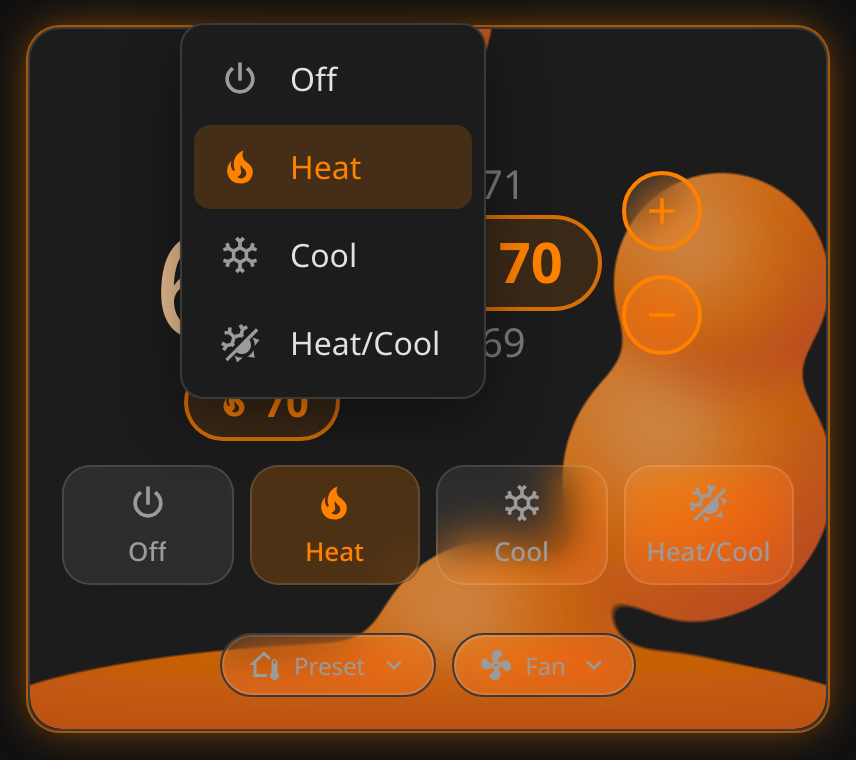
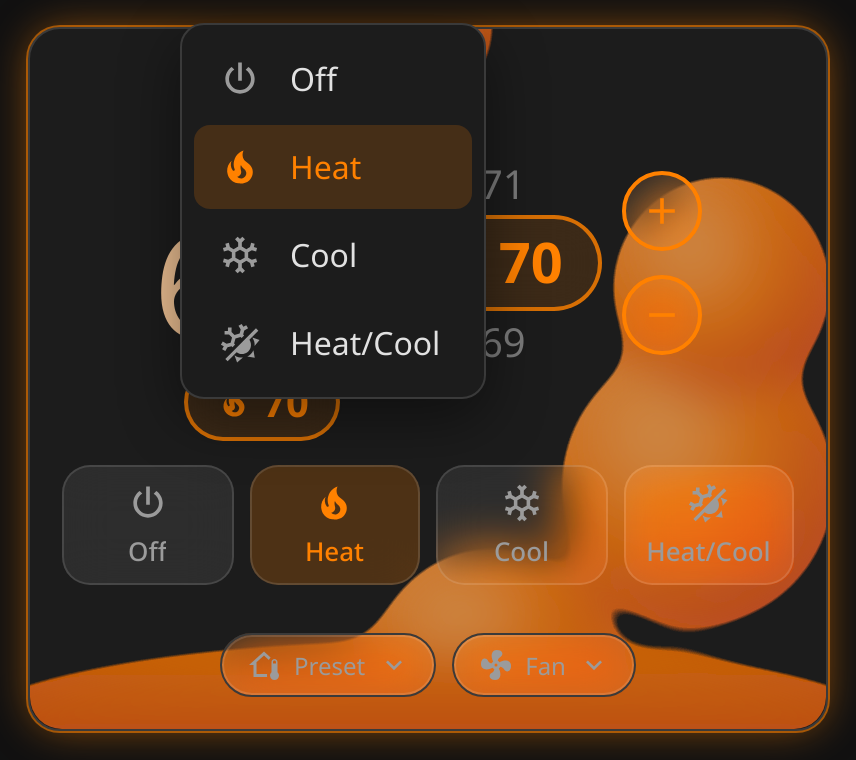
v2026.10.25.15: hide setpoint pill while tapped-open controls show; tap wheel to close

diff --git a/dist/easy-thermostat-styler-card.js b/dist/easy-thermostat-styler-card.js
@@ -559,7 +559,7 @@ function Xt(a) {
 function R(a) {
   return Xt({ ...a, state: !0, attribute: !1 });
 }
-const Oe = "2026.10.25.14", yt = "easy-thermostat-styler-card", Pt = "easy-thermostat-styler-card-editor", Le = [
+const Oe = "2026.10.25.15", yt = "easy-thermostat-styler-card", Pt = "easy-thermostat-styler-card-editor", Le = [
   "name",
   "status",
   "current",
@@ -2139,6 +2139,8 @@ It replaces this card’s layout, setpoint control and styling. Your device chip
       m.open_in
     )}
             ${this._hint("“In place of the current temperature” swaps the big number for the controls while they are open.")}
+            ${this._bool("setpoint.hide_pills_open", "Hide the setpoint pill while the controls are open", !1)}
+            ${this._hint("The control already shows the setpoint. In Heat / Cool a small heat/cool switch appears on the control instead. Tap the wheel (without dragging) to close it.")}
             ${this._bool("setpoint.hide_at_target", "Hide the setpoint once the room reaches it", !1)}
             ${this._hint("While closed, only the current temperature shows once it matches the setpoint; until then the setpoint shows beside it. Tap the temperature to open the controls at any time.")}
             ${this._sliderRow(
@@ -4093,7 +4095,7 @@ const Zr = 500, ee = class ee extends Z {
       const i = t.currentTarget;
       i.hasPointerCapture?.(t.pointerId) && i.releasePointerCapture(t.pointerId);
       const r = this._sp.edit;
-      r && r[r.active]?.value !== e.startValue && this._sp.commit(r);
+      r && r[r.active]?.value !== e.startValue ? this._sp.commit(r) : this._tapMode() && this._revealed && Math.abs(t.clientY - e.startY) < 6 && this._setRevealed(!1);
     }, this._wheelKey = (t) => {
       const e = this._sp.edit;
       e && (t.key === "ArrowUp" || t.key === "ArrowRight" ? (t.preventDefault(), this._sp.commit(X(e, 1))) : (t.key === "ArrowDown" || t.key === "ArrowLeft") && (t.preventDefault(), this._sp.commit(X(e, -1))));
@@ -4297,7 +4299,7 @@ const Zr = 500, ee = class ee extends Z {
       ${(e.show_humidity ?? m.show_humidity) && t.humidity !== null ? c`<div class="humidity"><ha-icon icon="mdi:water-outline"></ha-icon>${Math.round(t.humidity)}%</div>` : h}
       ${lt === "beside" && ct !== h ? c`<div class="cur-row">${re}${ct}</div>` : re}
       ${lt === "below" ? ct : h}
-      ${(e.show_pills ?? m.show_pills) && s?.available && !w ? this._renderPills(s, x, f) : h}
+      ${(e.show_pills ?? m.show_pills) && s?.available && !w && !(b && f && i.hide_pills_open) ? this._renderPills(s, x, f) : h}
     </div>`;
     return c`<div class="core al-${n} pos-${o}">
       ${P && u ? P : h}
@@ -4381,7 +4383,7 @@ const Zr = 500, ee = class ee extends Z {
       @click=${() => this._sp.commit(X(t, -1))}
     >
       <ha-icon icon="mdi:minus"></ha-icon>
-    </button>`, l = (this._config?.show_pills ?? m.show_pills) === !1 && t.heat && t.cool ? c`<div class="hc-switch" role="group" aria-label="Setpoint">
+    </button>`, l = ((this._config?.show_pills ?? m.show_pills) === !1 || this._tapMode() && this._revealed && !!this._config?.setpoint?.hide_pills_open) && t.heat && t.cool ? c`<div class="hc-switch" role="group" aria-label="Setpoint">
             ${["heat", "cool"].map(
       (w) => c`<button
                 class="hc ${w} ${t.active === w ? "on" : ""}"

diff --git a/src/card.ts b/src/card.ts
@@ -414,7 +414,9 @@ export class EasyThermostatStylerCard extends LitElement {
         : nothing}
       ${statusPos === 'beside' && status !== nothing ? html`<div class="cur-row">${currentTpl}${status}</div>` : currentTpl}
       ${statusPos === 'below' ? status : nothing}
-      ${(c.show_pills ?? DEFAULTS.show_pills) && edit?.available && !atTarget ? this._renderPills(edit, fromPills, open) : nothing}
+      ${(c.show_pills ?? DEFAULTS.show_pills) && edit?.available && !atTarget && !(tap && open && sp.hide_pills_open)
+        ? this._renderPills(edit, fromPills, open)
+        : nothing}
     </div>`;
 
     return html`<div class="core al-${align} pos-${position}">
@@ -525,7 +527,11 @@ export class EasyThermostatStylerCard extends LitElement {
 
     // Heat/Cool with the pills hidden: the pills normally pick which setpoint
     // is edited, so put a small heat/cool switch on the control instead.
-    const pillsHidden = (this._config?.show_pills ?? DEFAULTS.show_pills) === false;
+    // Pills hidden (always, or while the tapped-open controls show): the
+    // control gets its own heat/cool switch in Heat / Cool.
+    const pillsHidden =
+      (this._config?.show_pills ?? DEFAULTS.show_pills) === false ||
+      (this._tapMode() && this._revealed && !!this._config?.setpoint?.hide_pills_open);
     const sw =
       pillsHidden && edit.heat && edit.cool
         ? html`<div class="hc-switch" role="group" aria-label="Setpoint">
@@ -632,6 +638,8 @@ export class EasyThermostatStylerCard extends LitElement {
     if (el.hasPointerCapture?.(ev.pointerId)) el.releasePointerCapture(ev.pointerId);
     const edit = this._sp.edit;
     if (edit && edit[edit.active]?.value !== drag.startValue) this._sp.commit(edit);
+    // A plain tap (no drag) on the wheel closes tapped-open controls.
+    else if (this._tapMode() && this._revealed && Math.abs(ev.clientY - drag.startY) < 6) this._setRevealed(false);
   };
 
   private _wheelKey = (ev: KeyboardEvent): void => {

diff --git a/test/render.test.ts b/test/render.test.ts
@@ -543,6 +543,29 @@ describe('card render', () => {
     expect(pr.style.getPropertyValue('--etc-b-igap')).toBe('10px');
   });
 
+  it('tap mode: hide the pill while the controls are open; tapping the wheel closes', async () => {
+    const cfg = { setpoint: { reveal: 'tap', collapsed: 'hidden', open_in: 'current', hide_pills_open: true } };
+    const { root, el } = await mount(cfg);
+    expect(root.querySelector('.pill.heat')).not.toBeNull(); // closed: pill shows
+    root.querySelector<HTMLButtonElement>('button.current')!.click();
+    await el.updateComplete;
+    expect(root.querySelector('.in-current .wheel')).not.toBeNull();
+    expect(root.querySelector('.pills')).toBeNull();
+    const col = root.querySelector<HTMLElement>('.wheel-col')!;
+    col.dispatchEvent(new PointerEvent('pointerdown', { clientY: 100, pointerId: 1 }));
+    col.dispatchEvent(new PointerEvent('pointerup', { clientY: 101, pointerId: 1 }));
+    await el.updateComplete;
+    expect(root.querySelector('.wheel')).toBeNull();
+    expect(root.querySelector('.pill.heat')).not.toBeNull();
+    document.body.innerHTML = '';
+    // Heat/Cool: the switch stands in for the pills while open
+    const h = fakeHass([climate('heat_cool', { ...RICH, target_temp_low: 68, target_temp_high: 75 })]);
+    const d = await mount(cfg, h);
+    d.root.querySelector<HTMLButtonElement>('button.current')!.click();
+    await d.el.updateComplete;
+    expect(d.root.querySelectorAll('.hc-switch .hc')).toHaveLength(2);
+  });
+
   it('hvac set full-time; preset/fan behind toggles that remember state', async () => {
     const { root, calls, el } = await mount({});
     expect(root.querySelectorAll('.set.t-hvac .btn')).toHaveLength(4);

diff --git a/src/editor/editor.ts b/src/editor/editor.ts
@@ -504,6 +504,8 @@ export class EasyThermostatStylerCardEditor extends LitElement {
               DEFAULTS.open_in,
             )}
             ${this._hint('“In place of the current temperature” swaps the big number for the controls while they are open.')}
+            ${this._bool('setpoint.hide_pills_open', 'Hide the setpoint pill while the controls are open', false)}
+            ${this._hint('The control already shows the setpoint. In Heat / Cool a small heat/cool switch appears on the control instead. Tap the wheel (without dragging) to close it.')}
             ${this._bool('setpoint.hide_at_target', 'Hide the setpoint once the room reaches it', false)}
             ${this._hint('While closed, only the current temperature shows once it matches the setpoint; until then the setpoint shows beside it. Tap the temperature to open the controls at any time.')}
             ${this._sliderRow('Close after', secs, 0, 60, 1, this._get('setpoint.hide_after') !== undefined, (v) => this._put('setpoint.hide_after', v, DEFAULTS.hide_after), (n) =>

diff --git a/src/model/config.ts b/src/model/config.ts
@@ -7,7 +7,7 @@
 // untouched card never rewrites its YAML. Rendering defaults live in code
 // (`DEFAULTS` below), never in the stored config.
 
-export const CARD_VERSION = '2026.10.25.14';
+export const CARD_VERSION = '2026.10.25.15';
 export const CARD_TYPE = 'easy-thermostat-styler-card';
 export const EDITOR_TYPE = 'easy-thermostat-styler-card-editor';
 
@@ -197,6 +197,8 @@ export interface SetpointConfig {
   hide_after?: number;
   /** Tap mode: while closed, hide the setpoint once the room has reached it. */
   hide_at_target?: boolean;
+  /** Tap mode: hide the setpoint pills while the controls are open (the control shows the setpoint). */
+  hide_pills_open?: boolean;
 }
 
 export type FxValue = 'none' | 'glow' | 'pulse' | 'both';

diff --git a/CHANGELOG.md b/CHANGELOG.md
@@ -1,5 +1,10 @@
 # Changelog
 
+## v2026.10.25.15
+
+- **Hide the setpoint pill while the controls are open** (Setpoint control → Show controls, with "Shown when tapped"). The pill shows while the controls are closed and hides while the wheel, stepper or bar is open, since the control already shows the setpoint. In Heat / Cool, a small heat/cool switch appears on the control so you can still pick which setpoint to change.
+- In tap mode, a **plain tap on the wheel** (without dragging) now closes the controls.
+
 ## v2026.10.25.14
 
 - **Button scale** (Button style → Size): scale every button in every set, or override it for one set under "Button style for this set". The size, padding, corners, icon, text and spacing all scale together.

diff --git a/README.md b/README.md
@@ -6,7 +6,7 @@ https://github.com/Ltek/easy-thermostat-styler-card
 
 [![Open your Home Assistant instance and open a repository inside the Home Assistant Community Store.](https://my.home-assistant.io/badges/hacs_repository.svg)](https://my.home-assistant.io/redirect/hacs_repository/?owner=Ltek&repository=easy-thermostat-styler-card&category=plugin)
 
-Current build: **v2026.10.25.14** · full history in [CHANGELOG.md](CHANGELOG.md)
+Current build: **v2026.10.25.15** · full history in [CHANGELOG.md](CHANGELOG.md)
 
 ---
 
